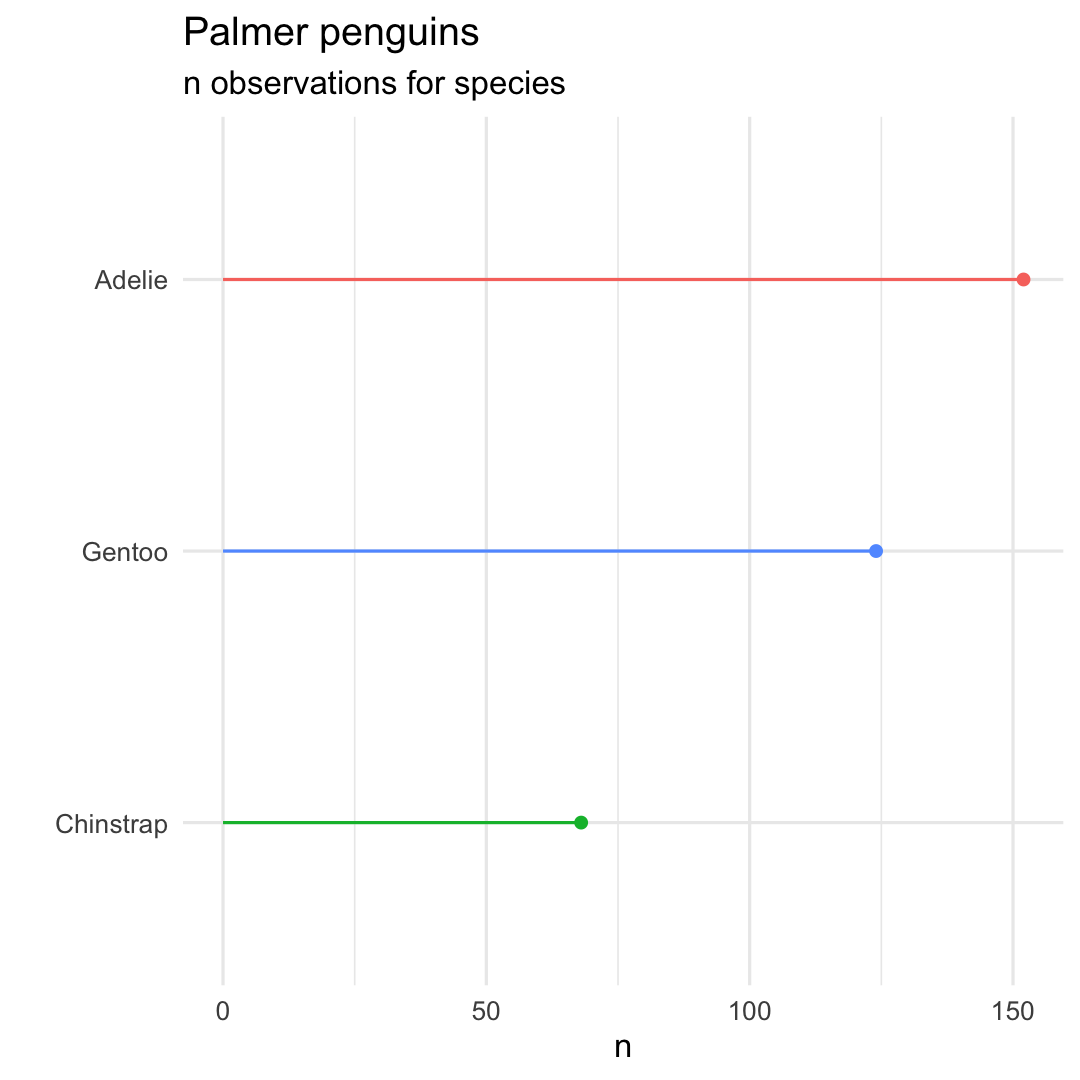
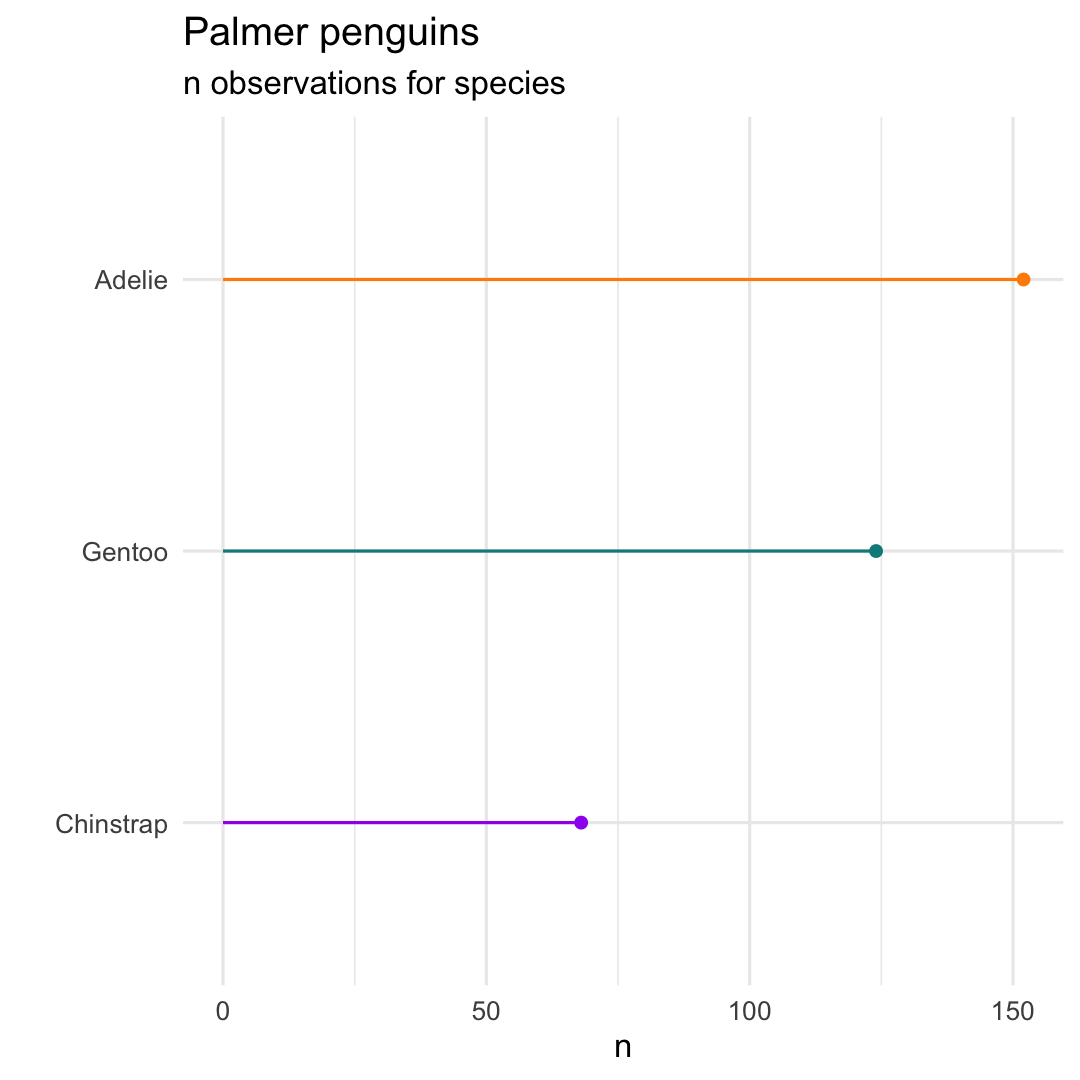
Update slides part 4

Changed region(s): [[0.2139, 0.4889, 0.825, 0.5194], [0.2139, 0.7333, 0.55, 0.7639], [0.9167, 0.2444, 0.9472, 0.275]]

diff --git a/Presentations/Part4/slides_part-4.html b/Presentations/Part4/slides_part-4.html
@@ -3,11 +3,11 @@
   <head>
     <title>Workshop R &amp; RStudio</title>
     <meta charset="utf-8" />
-    <script src="libs/header-attrs-2.23/header-attrs.js"></script>
+    <script src="libs/header-attrs-2.17/header-attrs.js"></script>
     <link href="libs/remark-css-0.0.1/default.css" rel="stylesheet" />
     <link href="libs/remark-css-0.0.1/default-fonts.css" rel="stylesheet" />
-    <link href="libs/panelset-0.2.6/panelset.css" rel="stylesheet" />
-    <script src="libs/panelset-0.2.6/panelset.js"></script>
+    <link href="libs/panelset-0.3.0/panelset.css" rel="stylesheet" />
+    <script src="libs/panelset-0.3.0/panelset.js"></script>
     <link rel="stylesheet" href="extra.css" type="text/css" />
   </head>
   <body>
@@ -96,7 +96,7 @@ name: part1
 
 ## Plots in .UA-red[`base`] 
 
-<style>.panelset{--panel-tab-active-foreground: #AAAA17;--panel-tab-hover-foreground: #d22;--panel-tab-font-family: Roboto;}</style>
+<style>:root{--panel-tab-active-foreground:#AAAA17;--panel-tab-hover-foreground:#d22;--panel-tab-font-family:Roboto;}</style>
 
 .panelset[
 .panel[.panel-name[.SW-greenD[`plot()`]]
@@ -228,75 +228,15 @@ _Slide by [Tanya Shapiro](https://twitter.com/tanya_shapiro/status/1576935152575
 
 - Data is not only raw data, but can also be the results from an analysis
   
-&lt;table&gt;
- &lt;thead&gt;
-  &lt;tr&gt;
-   &lt;th style="text-align:left;"&gt; group &lt;/th&gt;
-   &lt;th style="text-align:left;"&gt; country &lt;/th&gt;
-   &lt;th style="text-align:left;"&gt; gender &lt;/th&gt;
-   &lt;th style="text-align:right;"&gt; mean_age &lt;/th&gt;
-   &lt;th style="text-align:right;"&gt; SD_age &lt;/th&gt;
-   &lt;th style="text-align:right;"&gt; CI_lower &lt;/th&gt;
-   &lt;th style="text-align:right;"&gt; CI_upper &lt;/th&gt;
-  &lt;/tr&gt;
- &lt;/thead&gt;
-&lt;tbody&gt;
-  &lt;tr&gt;
-   &lt;td style="text-align:left;"&gt; BE Male &lt;/td&gt;
-   &lt;td style="text-align:left;"&gt; BE &lt;/td&gt;
-   &lt;td style="text-align:left;"&gt; Male &lt;/td&gt;
-   &lt;td style="text-align:right;"&gt; 39 &lt;/td&gt;
-   &lt;td style="text-align:right;"&gt; 11.0 &lt;/td&gt;
-   &lt;td style="text-align:right;"&gt; 17.44 &lt;/td&gt;
-   &lt;td style="text-align:right;"&gt; 60.56 &lt;/td&gt;
-  &lt;/tr&gt;
-  &lt;tr&gt;
-   &lt;td style="text-align:left;"&gt; BE Female &lt;/td&gt;
-   &lt;td style="text-align:left;"&gt; BE &lt;/td&gt;
-   &lt;td style="text-align:left;"&gt; Female &lt;/td&gt;
-   &lt;td style="text-align:right;"&gt; 41 &lt;/td&gt;
-   &lt;td style="text-align:right;"&gt; 13.2 &lt;/td&gt;
-   &lt;td style="text-align:right;"&gt; 15.13 &lt;/td&gt;
-   &lt;td style="text-align:right;"&gt; 66.87 &lt;/td&gt;
-  &lt;/tr&gt;
-  &lt;tr&gt;
-   &lt;td style="text-align:left;"&gt; BE Other &lt;/td&gt;
-   &lt;td style="text-align:left;"&gt; BE &lt;/td&gt;
-   &lt;td style="text-align:left;"&gt; Other &lt;/td&gt;
-   &lt;td style="text-align:right;"&gt; 36 &lt;/td&gt;
-   &lt;td style="text-align:right;"&gt; 8.2 &lt;/td&gt;
-   &lt;td style="text-align:right;"&gt; 19.93 &lt;/td&gt;
-   &lt;td style="text-align:right;"&gt; 52.07 &lt;/td&gt;
-  &lt;/tr&gt;
-  &lt;tr&gt;
-   &lt;td style="text-align:left;"&gt; NL Male &lt;/td&gt;
-   &lt;td style="text-align:left;"&gt; NL &lt;/td&gt;
-   &lt;td style="text-align:left;"&gt; Male &lt;/td&gt;
-   &lt;td style="text-align:right;"&gt; 37 &lt;/td&gt;
-   &lt;td style="text-align:right;"&gt; 12.0 &lt;/td&gt;
-   &lt;td style="text-align:right;"&gt; 13.48 &lt;/td&gt;
-   &lt;td style="text-align:right;"&gt; 60.52 &lt;/td&gt;
-  &lt;/tr&gt;
-  &lt;tr&gt;
-   &lt;td style="text-align:left;"&gt; NL Female &lt;/td&gt;
-   &lt;td style="text-align:left;"&gt; NL &lt;/td&gt;
-   &lt;td style="text-align:left;"&gt; Female &lt;/td&gt;
-   &lt;td style="text-align:right;"&gt; 36 &lt;/td&gt;
-   &lt;td style="text-align:right;"&gt; 14.0 &lt;/td&gt;
-   &lt;td style="text-align:right;"&gt; 8.56 &lt;/td&gt;
-   &lt;td style="text-align:right;"&gt; 63.44 &lt;/td&gt;
-  &lt;/tr&gt;
-  &lt;tr&gt;
-   &lt;td style="text-align:left;"&gt; NL Other &lt;/td&gt;
-   &lt;td style="text-align:left;"&gt; NL &lt;/td&gt;
-   &lt;td style="text-align:left;"&gt; Other &lt;/td&gt;
-   &lt;td style="text-align:right;"&gt; 31 &lt;/td&gt;
-   &lt;td style="text-align:right;"&gt; 7.2 &lt;/td&gt;
-   &lt;td style="text-align:right;"&gt; 16.89 &lt;/td&gt;
-   &lt;td style="text-align:right;"&gt; 45.11 &lt;/td&gt;
-  &lt;/tr&gt;
-&lt;/tbody&gt;
-&lt;/table&gt;
+
+|group     |country |gender | mean_age| SD_age| CI_lower| CI_upper|
+|:---------|:-------|:------|--------:|------:|--------:|--------:|
+|BE Male   |BE      |Male   |       39|   11.0|    17.44|    60.56|
+|BE Female |BE      |Female |       41|   13.2|    15.13|    66.87|
+|BE Other  |BE      |Other  |       36|    8.2|    19.93|    52.07|
+|NL Male   |NL      |Male   |       37|   12.0|    13.48|    60.52|
+|NL Female |NL      |Female |       36|   14.0|     8.56|    63.44|
+|NL Other  |NL      |Other  |       31|    7.2|    16.89|    45.11|
 
 &lt;br&gt;  
 
@@ -395,123 +335,21 @@ data("penguins")
 
 ## Time to get the penguins in...
 
-&lt;table&gt;
-&lt;caption&gt;Table 1. Random sample of 10 observations from the Palmer Pinguins dataset&lt;/caption&gt;
- &lt;thead&gt;
-  &lt;tr&gt;
-   &lt;th style="text-align:left;"&gt; species &lt;/th&gt;
-   &lt;th style="text-align:left;"&gt; island &lt;/th&gt;
-   &lt;th style="text-align:right;"&gt; bill_length_mm &lt;/th&gt;
-   &lt;th style="text-align:right;"&gt; bill_depth_mm &lt;/th&gt;
-   &lt;th style="text-align:right;"&gt; flipper_length_mm &lt;/th&gt;
-   &lt;th style="text-align:right;"&gt; body_mass_g &lt;/th&gt;
-   &lt;th style="text-align:left;"&gt; sex &lt;/th&gt;
-   &lt;th style="text-align:right;"&gt; year &lt;/th&gt;
-  &lt;/tr&gt;
- &lt;/thead&gt;
-&lt;tbody&gt;
-  &lt;tr&gt;
-   &lt;td style="text-align:left;"&gt; Adelie &lt;/td&gt;
-   &lt;td style="text-align:left;"&gt; Dream &lt;/td&gt;
-   &lt;td style="text-align:right;"&gt; 41.1 &lt;/td&gt;
-   &lt;td style="text-align:right;"&gt; 17.5 &lt;/td&gt;
-   &lt;td style="text-align:right;"&gt; 190 &lt;/td&gt;
-   &lt;td style="text-align:right;"&gt; 3900 &lt;/td&gt;
-   &lt;td style="text-align:left;"&gt; male &lt;/td&gt;
-   &lt;td style="text-align:right;"&gt; 2009 &lt;/td&gt;
-  &lt;/tr&gt;
-  &lt;tr&gt;
-   &lt;td style="text-align:left;"&gt; Gentoo &lt;/td&gt;
-   &lt;td style="text-align:left;"&gt; Biscoe &lt;/td&gt;
-   &lt;td style="text-align:right;"&gt; 44.0 &lt;/td&gt;
-   &lt;td style="text-align:right;"&gt; 13.6 &lt;/td&gt;
-   &lt;td style="text-align:right;"&gt; 208 &lt;/td&gt;
-   &lt;td style="text-align:right;"&gt; 4350 &lt;/td&gt;
-   &lt;td style="text-align:left;"&gt; female &lt;/td&gt;
-   &lt;td style="text-align:right;"&gt; 2008 &lt;/td&gt;
-  &lt;/tr&gt;
-  &lt;tr&gt;
-   &lt;td style="text-align:left;"&gt; Adelie &lt;/td&gt;
-   &lt;td style="text-align:left;"&gt; Dream &lt;/td&gt;
-   &lt;td style="text-align:right;"&gt; 40.6 &lt;/td&gt;
-   &lt;td style="text-align:right;"&gt; 17.2 &lt;/td&gt;
-   &lt;td style="text-align:right;"&gt; 187 &lt;/td&gt;
-   &lt;td style="text-align:right;"&gt; 3475 &lt;/td&gt;
-   &lt;td style="text-align:left;"&gt; male &lt;/td&gt;
-   &lt;td style="text-align:right;"&gt; 2009 &lt;/td&gt;
-  &lt;/tr&gt;
-  &lt;tr&gt;
-   &lt;td style="text-align:left;"&gt; Gentoo &lt;/td&gt;
-   &lt;td style="text-align:left;"&gt; Biscoe &lt;/td&gt;
-   &lt;td style="text-align:right;"&gt; 45.5 &lt;/td&gt;
-   &lt;td style="text-align:right;"&gt; 13.9 &lt;/td&gt;
-   &lt;td style="text-align:right;"&gt; 210 &lt;/td&gt;
-   &lt;td style="text-align:right;"&gt; 4200 &lt;/td&gt;
-   &lt;td style="text-align:left;"&gt; female &lt;/td&gt;
-   &lt;td style="text-align:right;"&gt; 2008 &lt;/td&gt;
-  &lt;/tr&gt;
-  &lt;tr&gt;
-   &lt;td style="text-align:left;"&gt; Chinstrap &lt;/td&gt;
-   &lt;td style="text-align:left;"&gt; Dream &lt;/td&gt;
-   &lt;td style="text-align:right;"&gt; 52.7 &lt;/td&gt;
-   &lt;td style="text-align:right;"&gt; 19.8 &lt;/td&gt;
-   &lt;td style="text-align:right;"&gt; 197 &lt;/td&gt;
-   &lt;td style="text-align:right;"&gt; 3725 &lt;/td&gt;
-   &lt;td style="text-align:left;"&gt; male &lt;/td&gt;
-   &lt;td style="text-align:right;"&gt; 2007 &lt;/td&gt;
-  &lt;/tr&gt;
-  &lt;tr&gt;
-   &lt;td style="text-align:left;"&gt; Adelie &lt;/td&gt;
-   &lt;td style="text-align:left;"&gt; Torgersen &lt;/td&gt;
-   &lt;td style="text-align:right;"&gt; 38.8 &lt;/td&gt;
-   &lt;td style="text-align:right;"&gt; 17.6 &lt;/td&gt;
-   &lt;td style="text-align:right;"&gt; 191 &lt;/td&gt;
-   &lt;td style="text-align:right;"&gt; 3275 &lt;/td&gt;
-   &lt;td style="text-align:left;"&gt; female &lt;/td&gt;
-   &lt;td style="text-align:right;"&gt; 2009 &lt;/td&gt;
-  &lt;/tr&gt;
-  &lt;tr&gt;
-   &lt;td style="text-align:left;"&gt; Chinstrap &lt;/td&gt;
-   &lt;td style="text-align:left;"&gt; Dream &lt;/td&gt;
-   &lt;td style="text-align:right;"&gt; 45.2 &lt;/td&gt;
-   &lt;td style="text-align:right;"&gt; 17.8 &lt;/td&gt;
-   &lt;td style="text-align:right;"&gt; 198 &lt;/td&gt;
-   &lt;td style="text-align:right;"&gt; 3950 &lt;/td&gt;
-   &lt;td style="text-align:left;"&gt; female &lt;/td&gt;
-   &lt;td style="text-align:right;"&gt; 2007 &lt;/td&gt;
-  &lt;/tr&gt;
-  &lt;tr&gt;
-   &lt;td style="text-align:left;"&gt; Adelie &lt;/td&gt;
-   &lt;td style="text-align:left;"&gt; Dream &lt;/td&gt;
-   &lt;td style="text-align:right;"&gt; 37.6 &lt;/td&gt;
-   &lt;td style="text-align:right;"&gt; 19.3 &lt;/td&gt;
-   &lt;td style="text-align:right;"&gt; 181 &lt;/td&gt;
-   &lt;td style="text-align:right;"&gt; 3300 &lt;/td&gt;
-   &lt;td style="text-align:left;"&gt; female &lt;/td&gt;
-   &lt;td style="text-align:right;"&gt; 2007 &lt;/td&gt;
-  &lt;/tr&gt;
-  &lt;tr&gt;
-   &lt;td style="text-align:left;"&gt; Adelie &lt;/td&gt;
-   &lt;td style="text-align:left;"&gt; Biscoe &lt;/td&gt;
-   &lt;td style="text-align:right;"&gt; 36.5 &lt;/td&gt;
-   &lt;td style="text-align:right;"&gt; 16.6 &lt;/td&gt;
-   &lt;td style="text-align:right;"&gt; 181 &lt;/td&gt;
-   &lt;td style="text-align:right;"&gt; 2850 &lt;/td&gt;
-   &lt;td style="text-align:left;"&gt; female &lt;/td&gt;
-   &lt;td style="text-align:right;"&gt; 2008 &lt;/td&gt;
-  &lt;/tr&gt;
-  &lt;tr&gt;
-   &lt;td style="text-align:left;"&gt; Adelie &lt;/td&gt;
-   &lt;td style="text-align:left;"&gt; Torgersen &lt;/td&gt;
-   &lt;td style="text-align:right;"&gt; 39.0 &lt;/td&gt;
-   &lt;td style="text-align:right;"&gt; 17.1 &lt;/td&gt;
-   &lt;td style="text-align:right;"&gt; 191 &lt;/td&gt;
-   &lt;td style="text-align:right;"&gt; 3050 &lt;/td&gt;
-   &lt;td style="text-align:left;"&gt; female &lt;/td&gt;
-   &lt;td style="text-align:right;"&gt; 2009 &lt;/td&gt;
-  &lt;/tr&gt;
-&lt;/tbody&gt;
-&lt;/table&gt;
+
+Table: Table 1. Random sample of 10 observations from the Palmer Pinguins dataset
+
+|species |island    | bill_length_mm| bill_depth_mm| flipper_length_mm| body_mass_g|sex    | year|
+|:-------|:---------|--------------:|-------------:|-----------------:|-----------:|:------|----:|
+|Adelie  |Dream     |           39.6|          18.8|               190|        4600|male   | 2007|
+|Gentoo  |Biscoe    |           51.1|          16.5|               225|        5250|male   | 2009|
+|Gentoo  |Biscoe    |           45.2|          15.8|               215|        5300|male   | 2008|
+|Gentoo  |Biscoe    |           47.5|          15.0|               218|        4950|female | 2009|
+|Adelie  |Dream     |           36.0|          17.1|               187|        3700|female | 2009|
+|Adelie  |Dream     |           36.0|          17.8|               195|        3450|female | 2009|
+|Gentoo  |Biscoe    |           43.8|          13.9|               208|        4300|female | 2008|
+|Adelie  |Biscoe    |           39.6|          20.7|               191|        3900|female | 2009|
+|Adelie  |Torgersen |           46.0|          21.5|               194|        4200|male   | 2007|
+|Adelie  |Dream     |           36.8|          18.5|               193|        3500|female | 2009|
 
 ---
 
@@ -947,7 +785,7 @@ Re-use remainder of code!
 .font50[
 
 ```r
-  scale_fill_manual(
+  scale_colour_manual(
     values = c("darkorange","purple","cyan4")
     ) +
   labs(
@@ -984,7 +822,8 @@ penguins %&gt;%
     species_ord = fct_reorder(species,n) 
     ) %&gt;% 
   ggplot(
-    aes(x = species_ord)) + 
+    aes(x = species_ord,
+        y = n)) + 
   geom_point( 
     aes(col = species) 
   ) + 
@@ -997,7 +836,7 @@ penguins %&gt;%
       col = species
       ) 
     ) + 
-  scale_fill_manual(
+  scale_colour_manual(
     values = c("darkorange","purple","cyan4")
     ) +
   labs(
